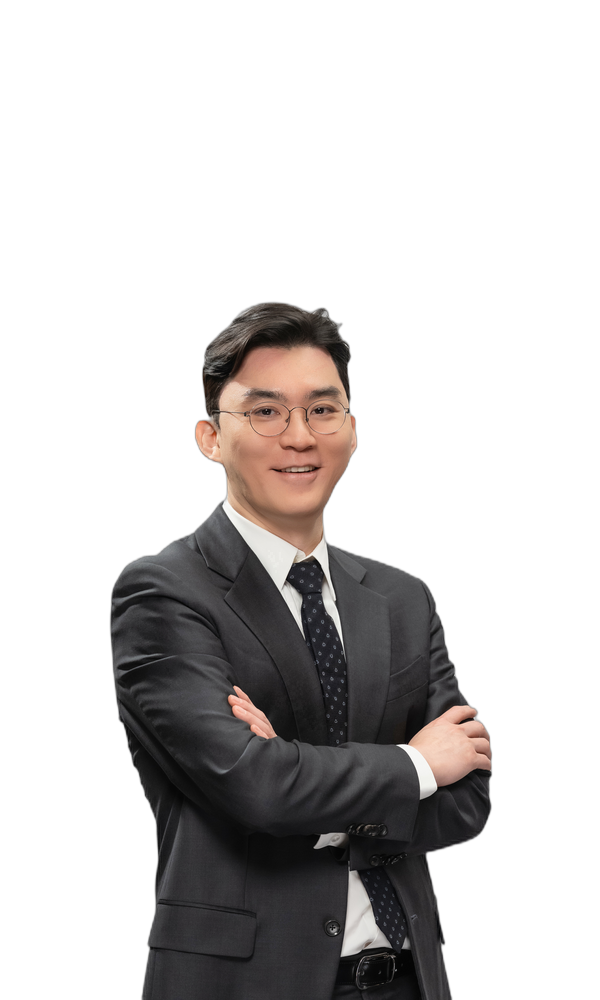
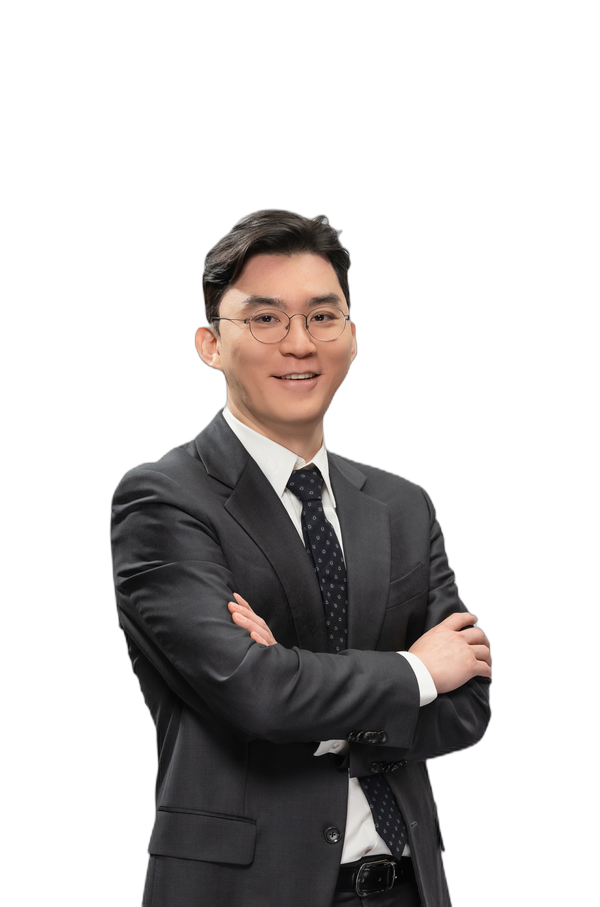
사진 위 여백 22%로 축소(인물 크기 회복) + 모바일 누끼 표시 수정 + OG 이미지 재생성
- 누끼 PNG: 위 여백 35→22%로 트림 (인물 너무 작아진 문제 해결)
- 카드 썸네일 JPG: 약 7% 위 패딩 (배경색 자동 매칭)
- 모바일 has-multi 사진 안 보이던 문제: 첫 IMG는 normal flow로 부모 높이 정의, 후속만 absolute
- OG 공유 이미지 재생성(images/og/member-*.jpg) - 카톡/페북 공유 시 새 사진 표시

Changed region(s): [[0.18, 0.2161, 0.84, 0.9879], [0.36, 0.9261, 0.42, 0.957], [0.42, 0.8026, 0.45, 0.8335]]

diff --git a/index.html b/index.html
@@ -22,7 +22,7 @@
   <link href="https://fonts.googleapis.com/css2?family=Noto+Sans+KR:wght@300;400;500;600;700;800&display=swap" rel="stylesheet">
   <link rel="stylesheet" href="https://unpkg.com/leaflet@1.9.4/dist/leaflet.css" />
   <link rel="stylesheet" href="https://cdnjs.cloudflare.com/ajax/libs/font-awesome/6.5.1/css/all.min.css" />
-  <link rel="stylesheet" href="css/style.css?v=20260501o">
+  <link rel="stylesheet" href="css/style.css?v=20260501q">
 </head>
 <body>
   <!-- Navigation -->
@@ -56,6 +56,6 @@
   </footer>
 
   <script src="https://unpkg.com/leaflet@1.9.4/dist/leaflet.js"></script>
-  <script src="js/app.js?v=20260501o"></script>
+  <script src="js/app.js?v=20260501q"></script>
 </body>
 </html>

diff --git a/css/style.css b/css/style.css
@@ -908,15 +908,19 @@ body[data-page="treatments"] .page-header {
 .hero-photo-img {
   transition: opacity 1.4s ease-in-out;
 }
+/* First image keeps natural layout (defines container height);
+   subsequent images stack on top via absolute positioning */
 .member-hero-photo.has-multi .hero-photo-img {
-  position: absolute;
-  bottom: 0;
-  left: 50%;
-  transform: translateX(-50%);
   opacity: 0;
 }
 .member-hero-photo.has-multi .hero-photo-img.active {
   opacity: 1;
+}
+.member-hero-photo.has-multi .hero-photo-img:not(:first-child) {
+  position: absolute;
+  bottom: 0;
+  left: 50%;
+  transform: translateX(-50%);
 }
 
 .member-detail-body {

diff --git a/gen_og_members.py b/gen_og_members.py
@@ -1,0 +1,95 @@
+"""Regenerate OG images for doctors using current cutout PNGs."""
+import os
+from PIL import Image, ImageDraw, ImageFont
+
+W, H = 1200, 630
+OUT_DIR = 'images/og'
+CUTOUT_DIR = '회원 프로필 사진_누끼'
+
+MEMBERS = [
+    ('bae-jungmin', '배정민', '힐하우스피부과의원 강남점'),
+    ('kim-hongseok', '김홍석', '보스피부과의원'),
+    ('lee-haeun', '이하은', '포레피부과의원'),
+    ('gye-jiwon', '계지원', '휴먼피부과의원 평택점'),
+    ('shin-jiyeon', '신지연', '헤브피부과의원 신사점'),
+    ('jung-hanmi', '정한미', '힐하우스피부과의원 강남점'),
+    ('park-saemi', '박새미', '힐하우스피부과의원 강남점'),
+    ('nam-chanhee', '남찬희', '휴먼피부과의원 평택점'),
+    ('park-mingi', '박민기', '휴먼피부과의원 평택점'),
+    ('lee-seolhee', '이설희', '헤브피부과의원 신사점'),
+    ('jung-jongheon', '정종헌', '헤브피부과의원 신사점'),
+]
+
+FONT_PATH = 'C:/Windows/Fonts/malgunbd.ttf'
+FONT_REG = 'C:/Windows/Fonts/malgun.ttf'
+
+
+def make_gradient():
+    img = Image.new('RGB', (W, H), (200, 207, 213))
+    px = img.load()
+    cx, cy = int(W * 0.7), int(H * 0.3)
+    max_r = ((W - cx) ** 2 + (H - cy) ** 2) ** 0.5
+    for y in range(H):
+        for x in range(W):
+            d = ((x - cx) ** 2 + (y - cy) ** 2) ** 0.5
+            t = min(d / max_r, 1.0)
+            if t < 0.45:
+                k = t / 0.45
+                r = int(232 + (200 - 232) * k)
+                g = int(236 + (207 - 236) * k)
+                b = int(239 + (213 - 239) * k)
+            else:
+                k = (t - 0.45) / 0.55
+                r = int(200 + (163 - 200) * k)
+                g = int(207 + (170 - 207) * k)
+                b = int(213 + (177 - 213) * k)
+            px[x, y] = (r, g, b)
+    return img
+
+
+def draw_badge(img):
+    draw = ImageDraw.Draw(img)
+    bx, by, bw, bh = 40, 36, 96, 96
+    draw.rounded_rectangle((bx, by, bx + bw, by + bh), radius=6, fill=(229, 56, 56))
+    f = ImageFont.truetype(FONT_PATH, 22)
+    draw.text((bx + bw / 2, by + 30), '피부과', font=f, fill='white', anchor='mm')
+    draw.text((bx + bw / 2, by + 62), '전문의', font=f, fill='white', anchor='mm')
+
+
+def draw_text(img, name, hospital):
+    draw = ImageDraw.Draw(img)
+    f_h = ImageFont.truetype(FONT_REG, 30)
+    draw.text((60, 430), hospital, font=f_h, fill=(70, 78, 90))
+    f_n = ImageFont.truetype(FONT_PATH, 92)
+    draw.text((60, 478), name, font=f_n, fill=(36, 78, 145))
+
+
+def draw_photo(img, photo_path):
+    if not os.path.exists(photo_path):
+        return
+    p = Image.open(photo_path).convert('RGBA')
+    pw, ph = p.size
+    target_h = int(H * 0.92)
+    scale = target_h / ph
+    new_w = int(pw * scale)
+    new_h = target_h
+    p2 = p.resize((new_w, new_h), Image.LANCZOS)
+    x = int(W * 0.72) - new_w // 2
+    y = H - new_h
+    img.paste(p2, (x, y), p2)
+
+
+bg_template = make_gradient()
+draw_badge(bg_template)
+
+os.makedirs(OUT_DIR, exist_ok=True)
+for mid, name, hospital in MEMBERS:
+    img = bg_template.copy()
+    draw_text(img, name, hospital)
+    photo_path = f'{CUTOUT_DIR}/{mid}.png'
+    draw_photo(img, photo_path)
+    out = f'{OUT_DIR}/member-{mid}.jpg'
+    img.save(out, 'JPEG', quality=88, optimize=True)
+    print(f'OK: {out}')
+
+print('Done.')
